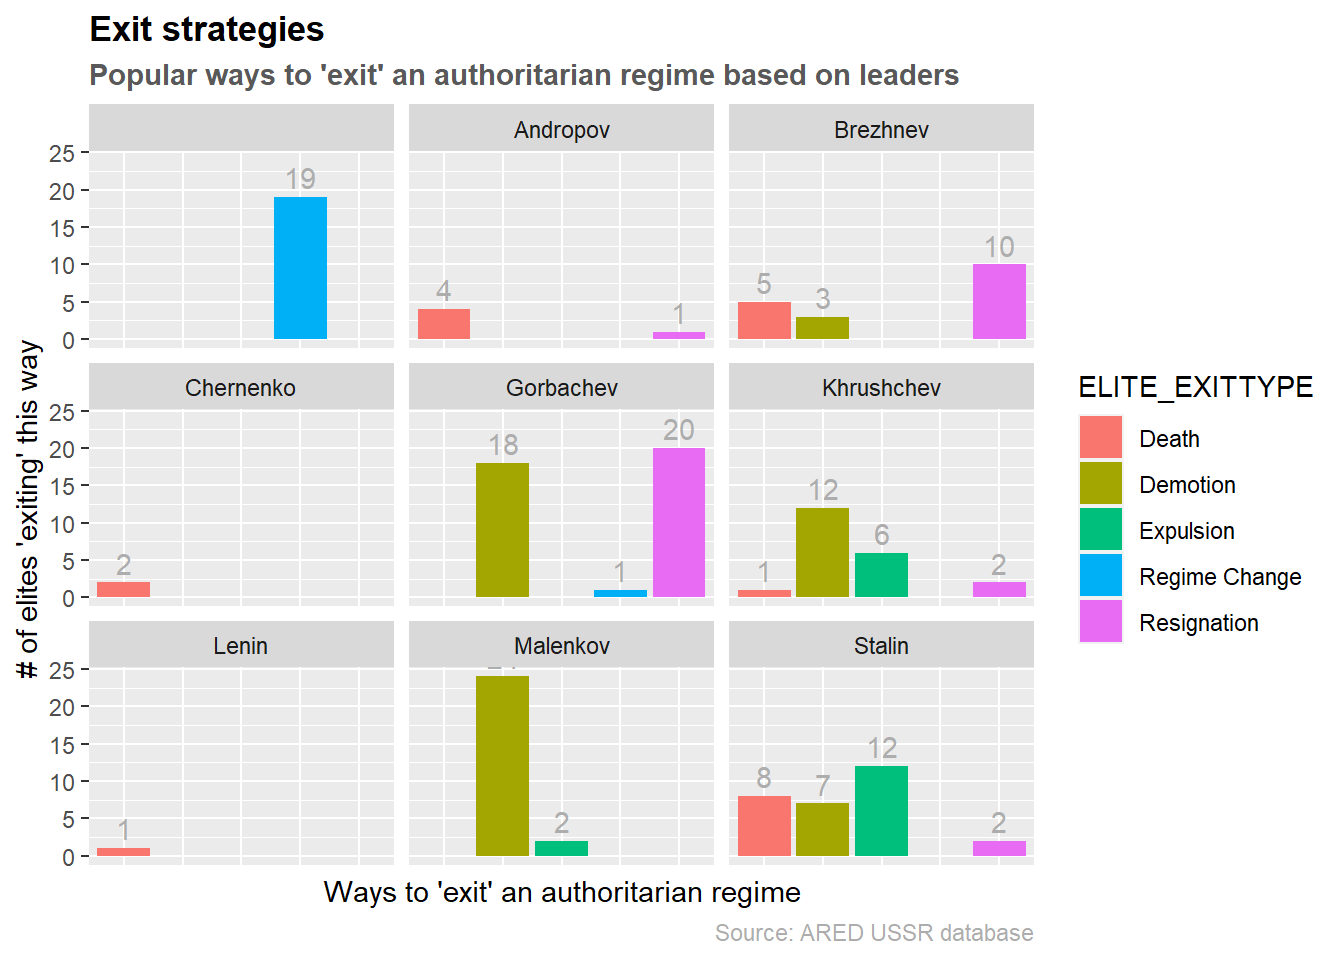
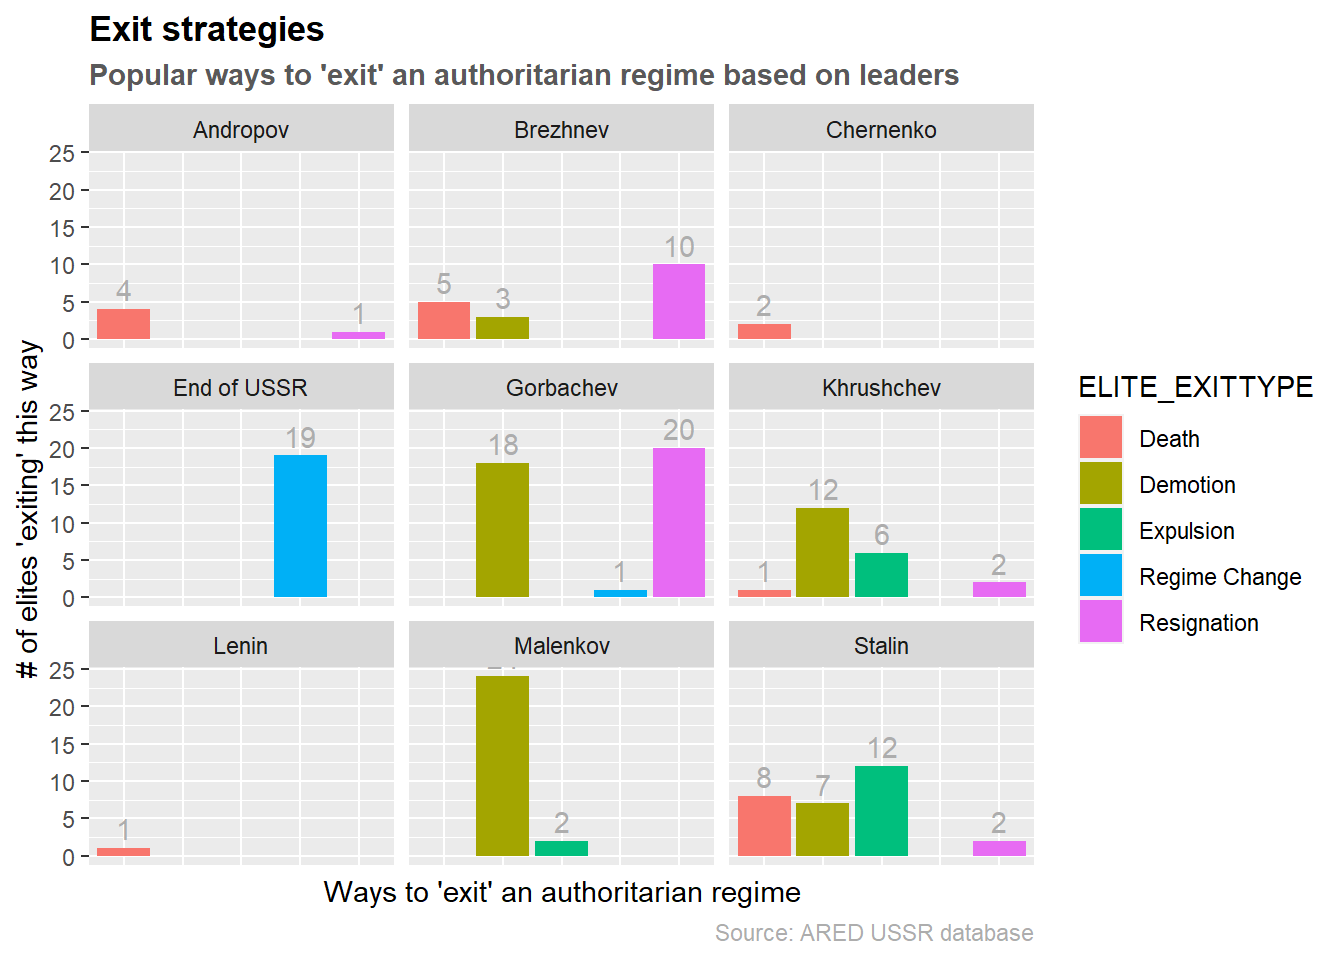
USSR Case study and explanation merge

diff --git a/docs/results.html b/docs/results.html
@@ -118,7 +118,7 @@
 <li class="chapter" data-level="4" data-path="missing-values.html"><a href="missing-values.html"><i class="fa fa-check"></i><b>4</b> Missing values</a></li>
 <li class="chapter" data-level="5" data-path="results.html"><a href="results.html"><i class="fa fa-check"></i><b>5</b> Results</a>
 <ul>
-<li class="chapter" data-level="5.1" data-path="results.html"><a href="results.html#reading-the-data-and-preliminary-analysis"><i class="fa fa-check"></i><b>5.1</b> Reading the data and preliminary analysis</a></li>
+<li class="chapter" data-level="5.1" data-path="results.html"><a href="results.html#case-study-ussr"><i class="fa fa-check"></i><b>5.1</b> Case Study: USSR</a></li>
 </ul></li>
 <li class="chapter" data-level="6" data-path="interactive-component.html"><a href="interactive-component.html"><i class="fa fa-check"></i><b>6</b> Interactive component</a></li>
 <li class="chapter" data-level="7" data-path="conclusion.html"><a href="conclusion.html"><i class="fa fa-check"></i><b>7</b> Conclusion</a></li>
@@ -143,13 +143,16 @@
             <section class="normal" id="section-">
 <div id="results" class="section level1" number="5">
 <h1><span class="header-section-number">Chapter 5</span> Results</h1>
-<div id="reading-the-data-and-preliminary-analysis" class="section level2" number="5.1">
-<h2><span class="header-section-number">5.1</span> Reading the data and preliminary analysis</h2>
+<div id="case-study-ussr" class="section level2" number="5.1">
+<h2><span class="header-section-number">5.1</span> Case Study: USSR</h2>
 <p>Let us first look at the history of the USSR.</p>
-<div id="htmlwidget-f875687d209ba0e0cc2e" style="width:100%;height:500px;" class="highchart html-widget"></div>
-<script type="application/json" data-for="htmlwidget-f875687d209ba0e0cc2e">{"x":{"hc_opts":{"chart":{"reflow":true,"inverted":true,"zoomType":"xy"},"title":[],"yAxis":{"title":{"text":null},"type":"datetime"},"credits":{"enabled":false},"exporting":{"enabled":false},"boost":{"enabled":false},"plotOptions":{"series":{"label":{"enabled":false},"turboThreshold":0},"treemap":{"layoutAlgorithm":"squarified"}},"series":[{"data":[{"event":"Lenin","start":"1922-12-30T05:00:00Z","end":-1449946800,"group":"Leaders of USSR","tooltip":"<b>Lenin<\/b><br>from <b>1922-12-30<\/b> to <b>1924-01-21<\/b>","label":"Lenin","col":"#8DD3C7","fontcol":"black","subplot":1,"y":1,"low":-1483383600000,"high":-1449946800000,"x":1,"color":"#8DD3C7"},{"event":"Stalin","start":"1924-01-21T05:00:00Z","end":-530996400,"group":"Leaders of USSR","tooltip":"<b>Stalin<\/b><br>from <b>1924-01-21<\/b> to <b>1953-03-05<\/b>","label":"Stalin","col":"#FFFFB3","fontcol":"black","subplot":1,"y":1,"low":-1449946800000,"high":-530996400000,"x":1,"color":"#FFFFB3"},{"event":"Malenkov","start":"1953-03-05T05:00:00Z","end":-514324800,"group":"Leaders of USSR","tooltip":"<b>Malenkov<\/b><br>from <b>1953-03-05<\/b> to <b>1953-09-14<\/b>","label":"Malenkov","col":"#BEBADA","fontcol":"black","subplot":1,"y":1,"low":-530996400000,"high":-514324800000,"x":1,"color":"#BEBADA"},{"event":"Khruschev","start":"1953-09-14T04:00:00Z","end":-164577600,"group":"Leaders of USSR","tooltip":"<b>Khruschev<\/b><br>from <b>1953-09-14<\/b> to <b>1964-10-14<\/b>","label":"Khruschev","col":"#FB8072","fontcol":"black","subplot":1,"y":1,"low":-514324800000,"high":-164577600000,"x":1,"color":"#FB8072"},{"event":"Brezhnev","start":"1964-10-14T04:00:00Z","end":405752400,"group":"Leaders of USSR","tooltip":"<b>Brezhnev<\/b><br>from <b>1964-10-14<\/b> to <b>1982-11-10<\/b>","label":"Brezhnev","col":"#80B1D3","fontcol":"black","subplot":1,"y":1,"low":-164577600000,"high":405752400000,"x":1,"color":"#80B1D3"},{"event":"Andropov","start":"1982-11-10T05:00:00Z","end":445150800,"group":"Leaders of USSR","tooltip":"<b>Andropov<\/b><br>from <b>1982-11-10<\/b> to <b>1984-02-09<\/b>","label":"Andropov","col":"#FDB462","fontcol":"black","subplot":1,"y":1,"low":405752400000,"high":445150800000,"x":1,"color":"#FDB462"},{"event":"Chernenko","start":"1984-02-09T05:00:00Z","end":479278800,"group":"Leaders of USSR","tooltip":"<b>Chernenko<\/b><br>from <b>1984-02-09<\/b> to <b>1985-03-10<\/b>","label":"Chernenko","col":"#B3DE69","fontcol":"black","subplot":1,"y":1,"low":445150800000,"high":479278800000,"x":1,"color":"#B3DE69"},{"event":"Gorbachev","start":"1985-03-10T05:00:00Z","end":693637200,"group":"Leaders of USSR","tooltip":"<b>Gorbachev<\/b><br>from <b>1985-03-10<\/b> to <b>1991-12-25<\/b>","label":"Gorbachev","col":"#FCCDE5","fontcol":"black","subplot":1,"y":1,"low":479278800000,"high":693637200000,"x":1,"color":"#FCCDE5"},{"event":"End of USSR","start":"1991-12-25T05:00:00Z","end":946702800,"group":"Leaders of USSR","tooltip":"<b>End of USSR<\/b><br>from <b>1991-12-25<\/b> to <b>2000-01-01<\/b>","label":"End of USSR","col":"#D9D9D9","fontcol":"black","subplot":1,"y":1,"low":693637200000,"high":946702800000,"x":1,"color":"#D9D9D9"}],"type":"columnrange","dataLabels":{"enabled":true,"inside":true,"formatter":"function () {return (this.y === this.point.low ? this.point.event : \"\")}"}}],"xAxis":{"categories":["","Leaders of USSR"]},"tooltip":{"crosshairs":true,"formatter":"function () {return this.point.tooltip}"},"legend":{"enabled":false}},"theme":{"chart":{"backgroundColor":"transparent"},"colors":["#7cb5ec","#434348","#90ed7d","#f7a35c","#8085e9","#f15c80","#e4d354","#2b908f","#f45b5b","#91e8e1"]},"conf_opts":{"global":{"Date":null,"VMLRadialGradientURL":"http =//code.highcharts.com/list(version)/gfx/vml-radial-gradient.png","canvasToolsURL":"http =//code.highcharts.com/list(version)/modules/canvas-tools.js","getTimezoneOffset":null,"timezoneOffset":0,"useUTC":true},"lang":{"contextButtonTitle":"Chart context menu","decimalPoint":".","downloadJPEG":"Download JPEG image","downloadPDF":"Download PDF document","downloadPNG":"Download PNG image","downloadSVG":"Download SVG vector image","drillUpText":"Back to {series.name}","invalidDate":null,"loading":"Loading...","months":["January","February","March","April","May","June","July","August","September","October","November","December"],"noData":"No data to display","numericSymbols":["k","M","G","T","P","E"],"printChart":"Print chart","resetZoom":"Reset zoom","resetZoomTitle":"Reset zoom level 1:1","shortMonths":["Jan","Feb","Mar","Apr","May","Jun","Jul","Aug","Sep","Oct","Nov","Dec"],"thousandsSep":" ","weekdays":["Sunday","Monday","Tuesday","Wednesday","Thursday","Friday","Saturday"]}},"type":"chart","fonts":[],"debug":false},"evals":["hc_opts.series.0.dataLabels.formatter","hc_opts.tooltip.formatter"],"jsHooks":[]}</script>
+<div id="htmlwidget-f117bea08062e4f3145f" style="width:100%;height:500px;" class="highchart html-widget"></div>
+<script type="application/json" data-for="htmlwidget-f117bea08062e4f3145f">{"x":{"hc_opts":{"chart":{"reflow":true,"inverted":true,"zoomType":"xy"},"title":[],"yAxis":{"title":{"text":null},"type":"datetime"},"credits":{"enabled":false},"exporting":{"enabled":false},"boost":{"enabled":false},"plotOptions":{"series":{"label":{"enabled":false},"turboThreshold":0},"treemap":{"layoutAlgorithm":"squarified"}},"series":[{"data":[{"event":"Lenin","start":"1922-12-30T05:00:00Z","end":-1449946800,"group":"Leaders of USSR","tooltip":"<b>Lenin<\/b><br>from <b>1922-12-30<\/b> to <b>1924-01-21<\/b>","label":"Lenin","col":"#8DD3C7","fontcol":"black","subplot":1,"y":1,"low":-1483383600000,"high":-1449946800000,"x":1,"color":"#8DD3C7"},{"event":"Stalin","start":"1924-01-21T05:00:00Z","end":-530996400,"group":"Leaders of USSR","tooltip":"<b>Stalin<\/b><br>from <b>1924-01-21<\/b> to <b>1953-03-05<\/b>","label":"Stalin","col":"#FFFFB3","fontcol":"black","subplot":1,"y":1,"low":-1449946800000,"high":-530996400000,"x":1,"color":"#FFFFB3"},{"event":"Malenkov","start":"1953-03-05T05:00:00Z","end":-514324800,"group":"Leaders of USSR","tooltip":"<b>Malenkov<\/b><br>from <b>1953-03-05<\/b> to <b>1953-09-14<\/b>","label":"Malenkov","col":"#BEBADA","fontcol":"black","subplot":1,"y":1,"low":-530996400000,"high":-514324800000,"x":1,"color":"#BEBADA"},{"event":"Khruschev","start":"1953-09-14T04:00:00Z","end":-164577600,"group":"Leaders of USSR","tooltip":"<b>Khruschev<\/b><br>from <b>1953-09-14<\/b> to <b>1964-10-14<\/b>","label":"Khruschev","col":"#FB8072","fontcol":"black","subplot":1,"y":1,"low":-514324800000,"high":-164577600000,"x":1,"color":"#FB8072"},{"event":"Brezhnev","start":"1964-10-14T04:00:00Z","end":405752400,"group":"Leaders of USSR","tooltip":"<b>Brezhnev<\/b><br>from <b>1964-10-14<\/b> to <b>1982-11-10<\/b>","label":"Brezhnev","col":"#80B1D3","fontcol":"black","subplot":1,"y":1,"low":-164577600000,"high":405752400000,"x":1,"color":"#80B1D3"},{"event":"Andropov","start":"1982-11-10T05:00:00Z","end":445150800,"group":"Leaders of USSR","tooltip":"<b>Andropov<\/b><br>from <b>1982-11-10<\/b> to <b>1984-02-09<\/b>","label":"Andropov","col":"#FDB462","fontcol":"black","subplot":1,"y":1,"low":405752400000,"high":445150800000,"x":1,"color":"#FDB462"},{"event":"Chernenko","start":"1984-02-09T05:00:00Z","end":479278800,"group":"Leaders of USSR","tooltip":"<b>Chernenko<\/b><br>from <b>1984-02-09<\/b> to <b>1985-03-10<\/b>","label":"Chernenko","col":"#B3DE69","fontcol":"black","subplot":1,"y":1,"low":445150800000,"high":479278800000,"x":1,"color":"#B3DE69"},{"event":"Gorbachev","start":"1985-03-10T05:00:00Z","end":693637200,"group":"Leaders of USSR","tooltip":"<b>Gorbachev<\/b><br>from <b>1985-03-10<\/b> to <b>1991-12-25<\/b>","label":"Gorbachev","col":"#FCCDE5","fontcol":"black","subplot":1,"y":1,"low":479278800000,"high":693637200000,"x":1,"color":"#FCCDE5"},{"event":"End of USSR","start":"1991-12-25T05:00:00Z","end":946702800,"group":"Leaders of USSR","tooltip":"<b>End of USSR<\/b><br>from <b>1991-12-25<\/b> to <b>2000-01-01<\/b>","label":"End of USSR","col":"#D9D9D9","fontcol":"black","subplot":1,"y":1,"low":693637200000,"high":946702800000,"x":1,"color":"#D9D9D9"}],"type":"columnrange","dataLabels":{"enabled":true,"inside":true,"formatter":"function () {return (this.y === this.point.low ? this.point.event : \"\")}"}}],"xAxis":{"categories":["","Leaders of USSR"]},"tooltip":{"crosshairs":true,"formatter":"function () {return this.point.tooltip}"},"legend":{"enabled":false}},"theme":{"chart":{"backgroundColor":"transparent"},"colors":["#7cb5ec","#434348","#90ed7d","#f7a35c","#8085e9","#f15c80","#e4d354","#2b908f","#f45b5b","#91e8e1"]},"conf_opts":{"global":{"Date":null,"VMLRadialGradientURL":"http =//code.highcharts.com/list(version)/gfx/vml-radial-gradient.png","canvasToolsURL":"http =//code.highcharts.com/list(version)/modules/canvas-tools.js","getTimezoneOffset":null,"timezoneOffset":0,"useUTC":true},"lang":{"contextButtonTitle":"Chart context menu","decimalPoint":".","downloadJPEG":"Download JPEG image","downloadPDF":"Download PDF document","downloadPNG":"Download PNG image","downloadSVG":"Download SVG vector image","drillUpText":"Back to {series.name}","invalidDate":null,"loading":"Loading...","months":["January","February","March","April","May","June","July","August","September","October","November","December"],"noData":"No data to display","numericSymbols":["k","M","G","T","P","E"],"printChart":"Print chart","resetZoom":"Reset zoom","resetZoomTitle":"Reset zoom level 1:1","shortMonths":["Jan","Feb","Mar","Apr","May","Jun","Jul","Aug","Sep","Oct","Nov","Dec"],"thousandsSep":" ","weekdays":["Sunday","Monday","Tuesday","Wednesday","Thursday","Friday","Saturday"]}},"type":"chart","fonts":[],"debug":false},"evals":["hc_opts.series.0.dataLabels.formatter","hc_opts.tooltip.formatter"],"jsHooks":[]}</script>
+<p>From here we can see 4 major leaders of USSR: Stalin, Khruschev, Brezhnev and Gorbachev. The leaders in between - Malenkov, Andropov and Chernenko, are leaders in transition periods, as seen by the short tenure of each of them. We can expect to see some tumultuous activity both inside, by the motion of the elites as well as from the outside world. First, let’s see the statistics of the elites that had their careers cut short during each of these periods.</p>
 <p><img src="finalproj_files/figure-html/unnamed-chunk-8-1.png" width="672" /></p>
-<p>The blank “leader” with the regime change is when the USSR ultimately fell in 1991. So we can see that 19 elites who were</p>
+<p>From this graph, we can see that the shorter the regime is (Andropov, Chernenko) the less drastic the changes. One outlier here is Malenkov, where there were many demotions despite the short time in power. This seems to align with the fact that he was a successor of Stalin, and was struggling to keep his power in Kremlin. That might also explain his short time in power.</p>
+<p>Another observation is that Stalin was the most active in executing/exiling the elites, as he has the most death/expulsion counts among all of the leaders. This seems to coincide with history.</p>
+<p>Finally, we can see that Gorbachev comes top in the number of resignations during his period. This may have to do with the fact that his regime was the last of USSR. It may be that many elites foresaw this downward tendency of the USSR and as such decided to resign before facing a dawning regime change.</p>
 
 </div>
 </div>

diff --git a/docs/interactive-component.html b/docs/interactive-component.html
@@ -118,7 +118,7 @@
 <li class="chapter" data-level="4" data-path="missing-values.html"><a href="missing-values.html"><i class="fa fa-check"></i><b>4</b> Missing values</a></li>
 <li class="chapter" data-level="5" data-path="results.html"><a href="results.html"><i class="fa fa-check"></i><b>5</b> Results</a>
 <ul>
-<li class="chapter" data-level="5.1" data-path="results.html"><a href="results.html#reading-the-data-and-preliminary-analysis"><i class="fa fa-check"></i><b>5.1</b> Reading the data and preliminary analysis</a></li>
+<li class="chapter" data-level="5.1" data-path="results.html"><a href="results.html#case-study-ussr"><i class="fa fa-check"></i><b>5.1</b> Case Study: USSR</a></li>
 </ul></li>
 <li class="chapter" data-level="6" data-path="interactive-component.html"><a href="interactive-component.html"><i class="fa fa-check"></i><b>6</b> Interactive component</a></li>
 <li class="chapter" data-level="7" data-path="conclusion.html"><a href="conclusion.html"><i class="fa fa-check"></i><b>7</b> Conclusion</a></li>
@@ -143,6 +143,13 @@
             <section class="normal" id="section-">
 <div id="interactive-component" class="section level1" number="6">
 <h1><span class="header-section-number">Chapter 6</span> Interactive component</h1>
+<p>While creating the graphs and looking at the data, we were wondering if there was a way to show each elite’s tenure and enrich it with their personal info.
+While it is definitely possible to create separate graphs for each demographics, it would be nice to show a graph that shows the active timeframe of each elite
+as well as their data.</p>
+<p>To do this, we made an interactive Gantt chart with d3.js. We limited the sample to all “engineers” among USSR’s elites. Hover over each bar of the elite to find out more about them.</p>
+<p><a href="https://vizhub.com/hyun3010/5c4f0bb403ba44498aa4b9937f3b390a?edit=files&amp;file=index.js#L13" class="uri">https://vizhub.com/hyun3010/5c4f0bb403ba44498aa4b9937f3b390a?edit=files&amp;file=index.js#L13</a></p>
+<p>We can find some interesting things about the engineers - one thing is that none of them met a gruesome fate!
+Even the demoted engineers had “no punishment” as a result, and none of them were executed or exiled.</p>
 
 </div>
             </section>

diff --git a/docs/conclusion.html b/docs/conclusion.html
@@ -118,7 +118,7 @@
 <li class="chapter" data-level="4" data-path="missing-values.html"><a href="missing-values.html"><i class="fa fa-check"></i><b>4</b> Missing values</a></li>
 <li class="chapter" data-level="5" data-path="results.html"><a href="results.html"><i class="fa fa-check"></i><b>5</b> Results</a>
 <ul>
-<li class="chapter" data-level="5.1" data-path="results.html"><a href="results.html#reading-the-data-and-preliminary-analysis"><i class="fa fa-check"></i><b>5.1</b> Reading the data and preliminary analysis</a></li>
+<li class="chapter" data-level="5.1" data-path="results.html"><a href="results.html#case-study-ussr"><i class="fa fa-check"></i><b>5.1</b> Case Study: USSR</a></li>
 </ul></li>
 <li class="chapter" data-level="6" data-path="interactive-component.html"><a href="interactive-component.html"><i class="fa fa-check"></i><b>6</b> Interactive component</a></li>
 <li class="chapter" data-level="7" data-path="conclusion.html"><a href="conclusion.html"><i class="fa fa-check"></i><b>7</b> Conclusion</a></li>

diff --git a/docs/data-sources.html b/docs/data-sources.html
@@ -118,7 +118,7 @@
 <li class="chapter" data-level="4" data-path="missing-values.html"><a href="missing-values.html"><i class="fa fa-check"></i><b>4</b> Missing values</a></li>
 <li class="chapter" data-level="5" data-path="results.html"><a href="results.html"><i class="fa fa-check"></i><b>5</b> Results</a>
 <ul>
-<li class="chapter" data-level="5.1" data-path="results.html"><a href="results.html#reading-the-data-and-preliminary-analysis"><i class="fa fa-check"></i><b>5.1</b> Reading the data and preliminary analysis</a></li>
+<li class="chapter" data-level="5.1" data-path="results.html"><a href="results.html#case-study-ussr"><i class="fa fa-check"></i><b>5.1</b> Case Study: USSR</a></li>
 </ul></li>
 <li class="chapter" data-level="6" data-path="interactive-component.html"><a href="interactive-component.html"><i class="fa fa-check"></i><b>6</b> Interactive component</a></li>
 <li class="chapter" data-level="7" data-path="conclusion.html"><a href="conclusion.html"><i class="fa fa-check"></i><b>7</b> Conclusion</a></li>

diff --git a/docs/data-transformation.html b/docs/data-transformation.html
@@ -118,7 +118,7 @@
 <li class="chapter" data-level="4" data-path="missing-values.html"><a href="missing-values.html"><i class="fa fa-check"></i><b>4</b> Missing values</a></li>
 <li class="chapter" data-level="5" data-path="results.html"><a href="results.html"><i class="fa fa-check"></i><b>5</b> Results</a>
 <ul>
-<li class="chapter" data-level="5.1" data-path="results.html"><a href="results.html#reading-the-data-and-preliminary-analysis"><i class="fa fa-check"></i><b>5.1</b> Reading the data and preliminary analysis</a></li>
+<li class="chapter" data-level="5.1" data-path="results.html"><a href="results.html#case-study-ussr"><i class="fa fa-check"></i><b>5.1</b> Case Study: USSR</a></li>
 </ul></li>
 <li class="chapter" data-level="6" data-path="interactive-component.html"><a href="interactive-component.html"><i class="fa fa-check"></i><b>6</b> Interactive component</a></li>
 <li class="chapter" data-level="7" data-path="conclusion.html"><a href="conclusion.html"><i class="fa fa-check"></i><b>7</b> Conclusion</a></li>

diff --git a/docs/index.html b/docs/index.html
@@ -118,7 +118,7 @@
 <li class="chapter" data-level="4" data-path="missing-values.html"><a href="missing-values.html"><i class="fa fa-check"></i><b>4</b> Missing values</a></li>
 <li class="chapter" data-level="5" data-path="results.html"><a href="results.html"><i class="fa fa-check"></i><b>5</b> Results</a>
 <ul>
-<li class="chapter" data-level="5.1" data-path="results.html"><a href="results.html#reading-the-data-and-preliminary-analysis"><i class="fa fa-check"></i><b>5.1</b> Reading the data and preliminary analysis</a></li>
+<li class="chapter" data-level="5.1" data-path="results.html"><a href="results.html#case-study-ussr"><i class="fa fa-check"></i><b>5.1</b> Case Study: USSR</a></li>
 </ul></li>
 <li class="chapter" data-level="6" data-path="interactive-component.html"><a href="interactive-component.html"><i class="fa fa-check"></i><b>6</b> Interactive component</a></li>
 <li class="chapter" data-level="7" data-path="conclusion.html"><a href="conclusion.html"><i class="fa fa-check"></i><b>7</b> Conclusion</a></li>

diff --git a/docs/missing-values.html b/docs/missing-values.html
@@ -118,7 +118,7 @@
 <li class="chapter" data-level="4" data-path="missing-values.html"><a href="missing-values.html"><i class="fa fa-check"></i><b>4</b> Missing values</a></li>
 <li class="chapter" data-level="5" data-path="results.html"><a href="results.html"><i class="fa fa-check"></i><b>5</b> Results</a>
 <ul>
-<li class="chapter" data-level="5.1" data-path="results.html"><a href="results.html#reading-the-data-and-preliminary-analysis"><i class="fa fa-check"></i><b>5.1</b> Reading the data and preliminary analysis</a></li>
+<li class="chapter" data-level="5.1" data-path="results.html"><a href="results.html#case-study-ussr"><i class="fa fa-check"></i><b>5.1</b> Case Study: USSR</a></li>
 </ul></li>
 <li class="chapter" data-level="6" data-path="interactive-component.html"><a href="interactive-component.html"><i class="fa fa-check"></i><b>6</b> Interactive component</a></li>
 <li class="chapter" data-level="7" data-path="conclusion.html"><a href="conclusion.html"><i class="fa fa-check"></i><b>7</b> Conclusion</a></li>
